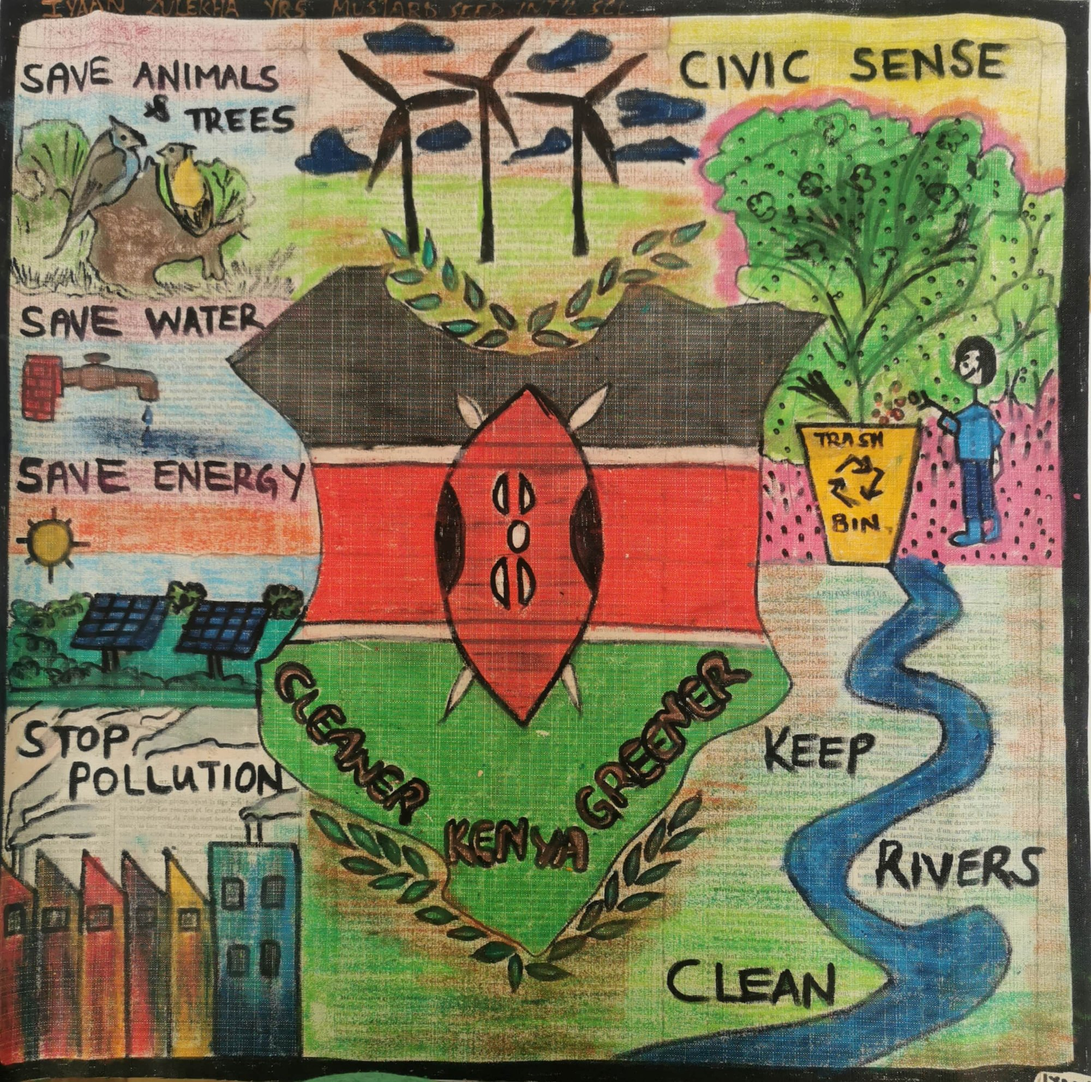
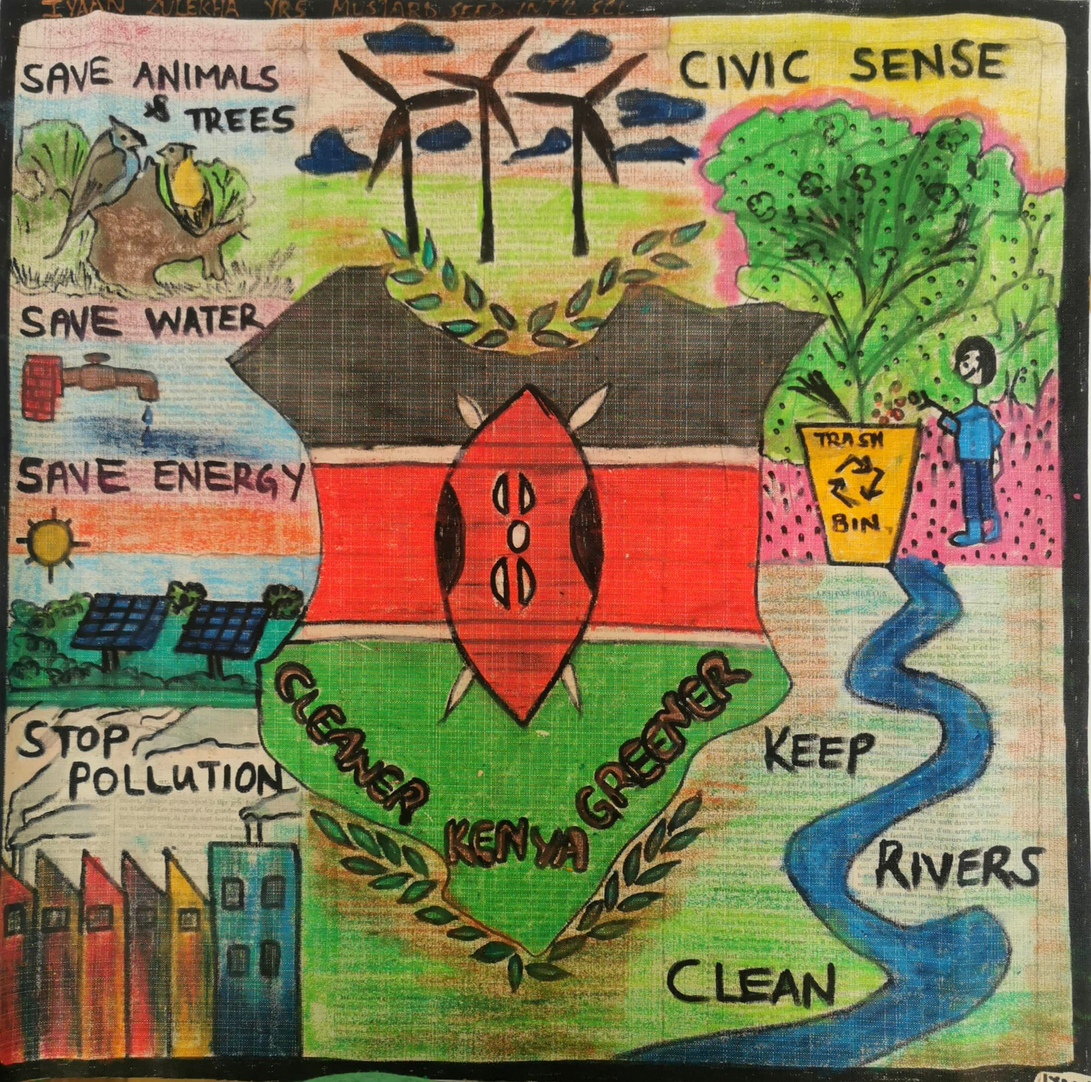
Rotate Viktoriia and Zoe, new Moses photo, boost saturation

Changed region(s): [[0.744, 0.3999, 0.837, 0.5229], [0.806, 0.0615, 0.868, 0.0923], [0.744, 0.0, 0.775, 0.0308]]

diff --git a/artworks.js b/artworks.js
@@ -6,7 +6,7 @@ const ARTWORKS = [
     "age": 16,
     "title": "A Beam Of A Green Future",
     "w": 2000,
-    "h": 1500
+    "h": 1590
   },
   {
     "image": "sophia.jpg",
@@ -77,8 +77,8 @@ const ARTWORKS = [
     "name": "Viktoriia",
     "age": 13,
     "title": "One planet. Two lungs. One choice.",
-    "w": 1546,
-    "h": 2000
+    "w": 2000,
+    "h": 1546
   },
   {
     "image": "jerry.jpg",
@@ -93,8 +93,8 @@ const ARTWORKS = [
     "name": "Zoe",
     "age": 12,
     "title": "Breath of fresh air",
-    "w": 1415,
-    "h": 2000
+    "w": 2000,
+    "h": 1415
   },
   {
     "image": "sienna.jpg",

diff --git a/build.py b/build.py
@@ -12,9 +12,19 @@ import re
 import sys
 
 import fitz
-from PIL import Image, ImageOps
+from PIL import Image, ImageEnhance, ImageOps
 
 MAX_SIDE = 2000
+SATURATION = 1.2  # 1.0 leaves colors as submitted
+
+# Per-piece fixes, keyed by the submission file name in the pieces folder
+REPLACE = {  # use a better photo of the same work
+    "0286539c-619d-4358-87f9-ff80756df186.jpg": os.path.expanduser("~/Downloads/IMG_2611.jpg"),  # Moses
+}
+ROTATE_CCW = {  # degrees counterclockwise
+    "b5647069-498a-4f38-b50c-39c8b14a54b1.pdf": 90,  # Viktoriia
+    "ce6f2999-fb4e-4710-8198-ebd1048e4b63.pdf": 90,  # Zoe
+}
 HERE = os.path.dirname(os.path.abspath(__file__))
 OUT = os.path.join(HERE, "images")
 
@@ -55,8 +65,11 @@ def main(csv_path, pieces_dir):
             out, n = f"{slug}-{n}", n + 1
         used.add(out)
 
-        img = load(os.path.join(pieces_dir, name))
+        img = load(REPLACE.get(name, os.path.join(pieces_dir, name)))
+        if name in ROTATE_CCW:
+            img = img.rotate(ROTATE_CCW[name], expand=True)
         img.thumbnail((MAX_SIDE, MAX_SIDE), Image.LANCZOS)
+        img = ImageEnhance.Color(img).enhance(SATURATION)
         img.save(os.path.join(OUT, out + ".jpg"), "JPEG", quality=85, optimize=True, progressive=True)
         art.append({
             "image": out + ".jpg",
